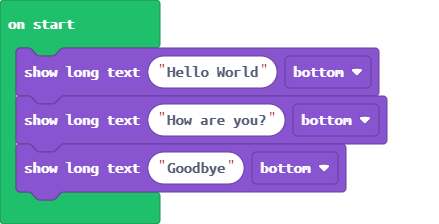
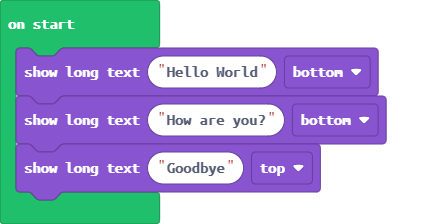
Just messin' around.

diff --git a/main.ts b/main.ts
@@ -1,3 +1,3 @@
 game.showLongText("Hello World", DialogLayout.Bottom)
 game.showLongText("How are you?", DialogLayout.Bottom)
-game.showLongText("Goodbye", DialogLayout.Bottom)
+game.showLongText("Goodbye", DialogLayout.Top)
